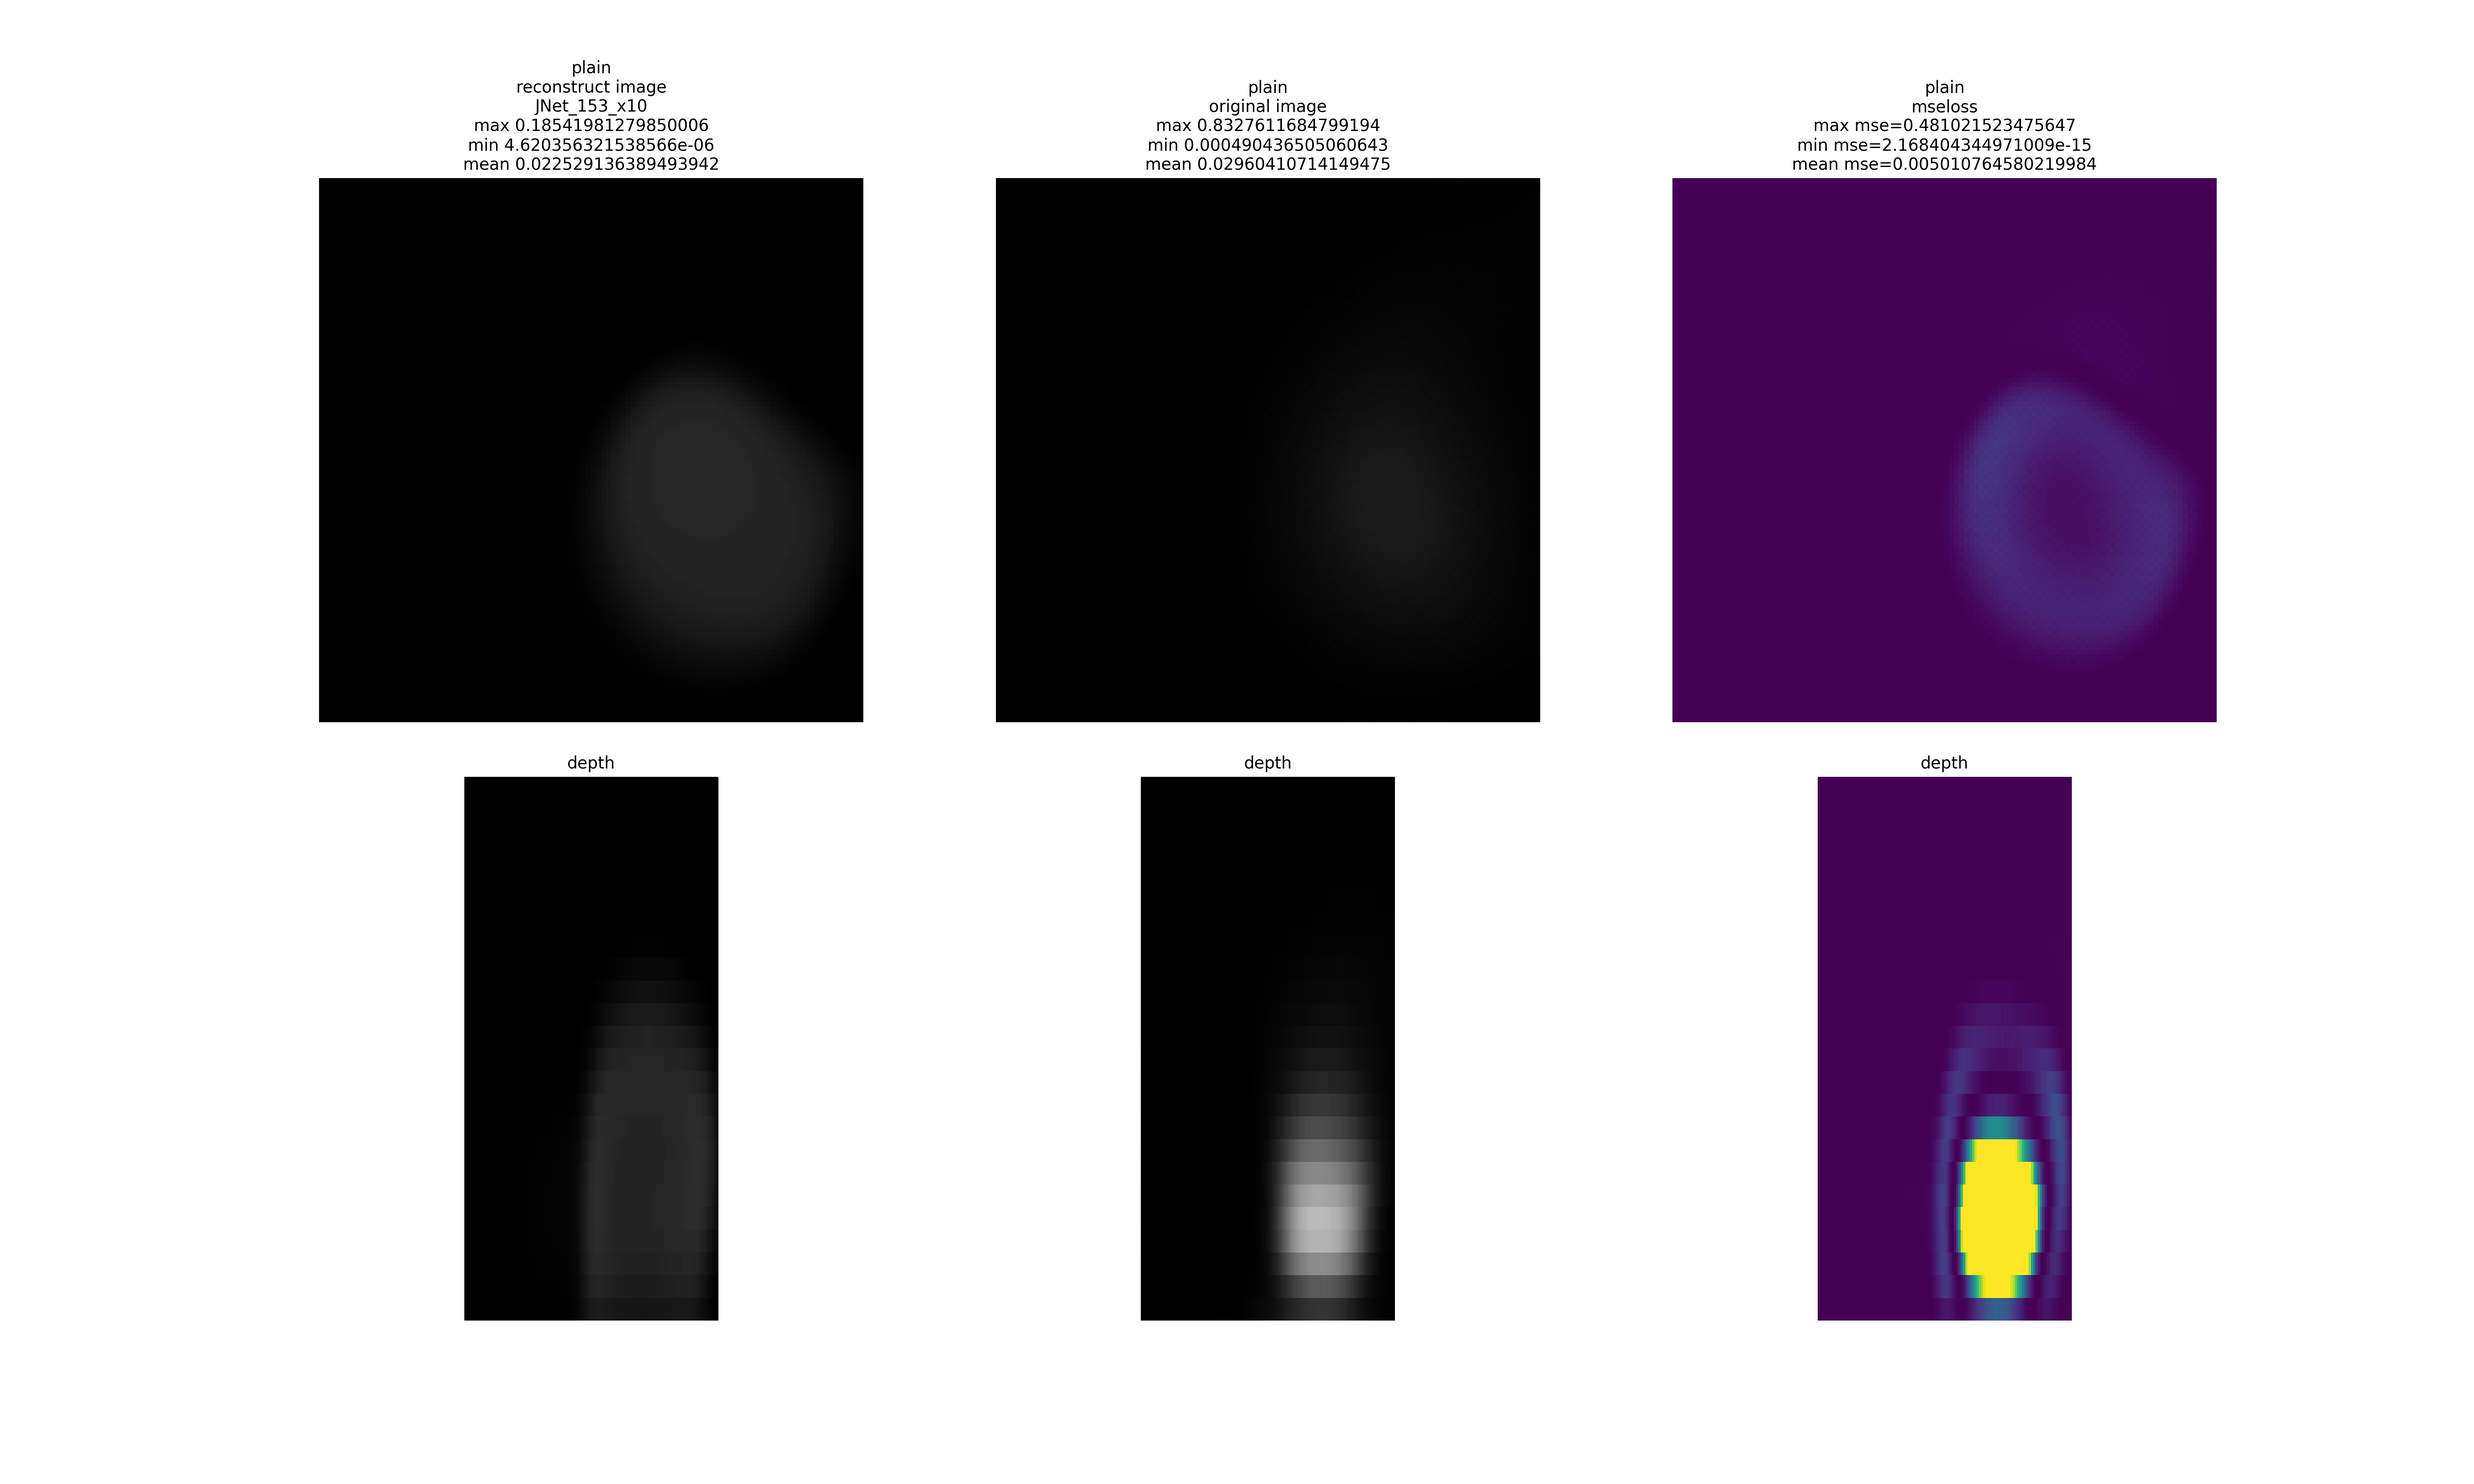
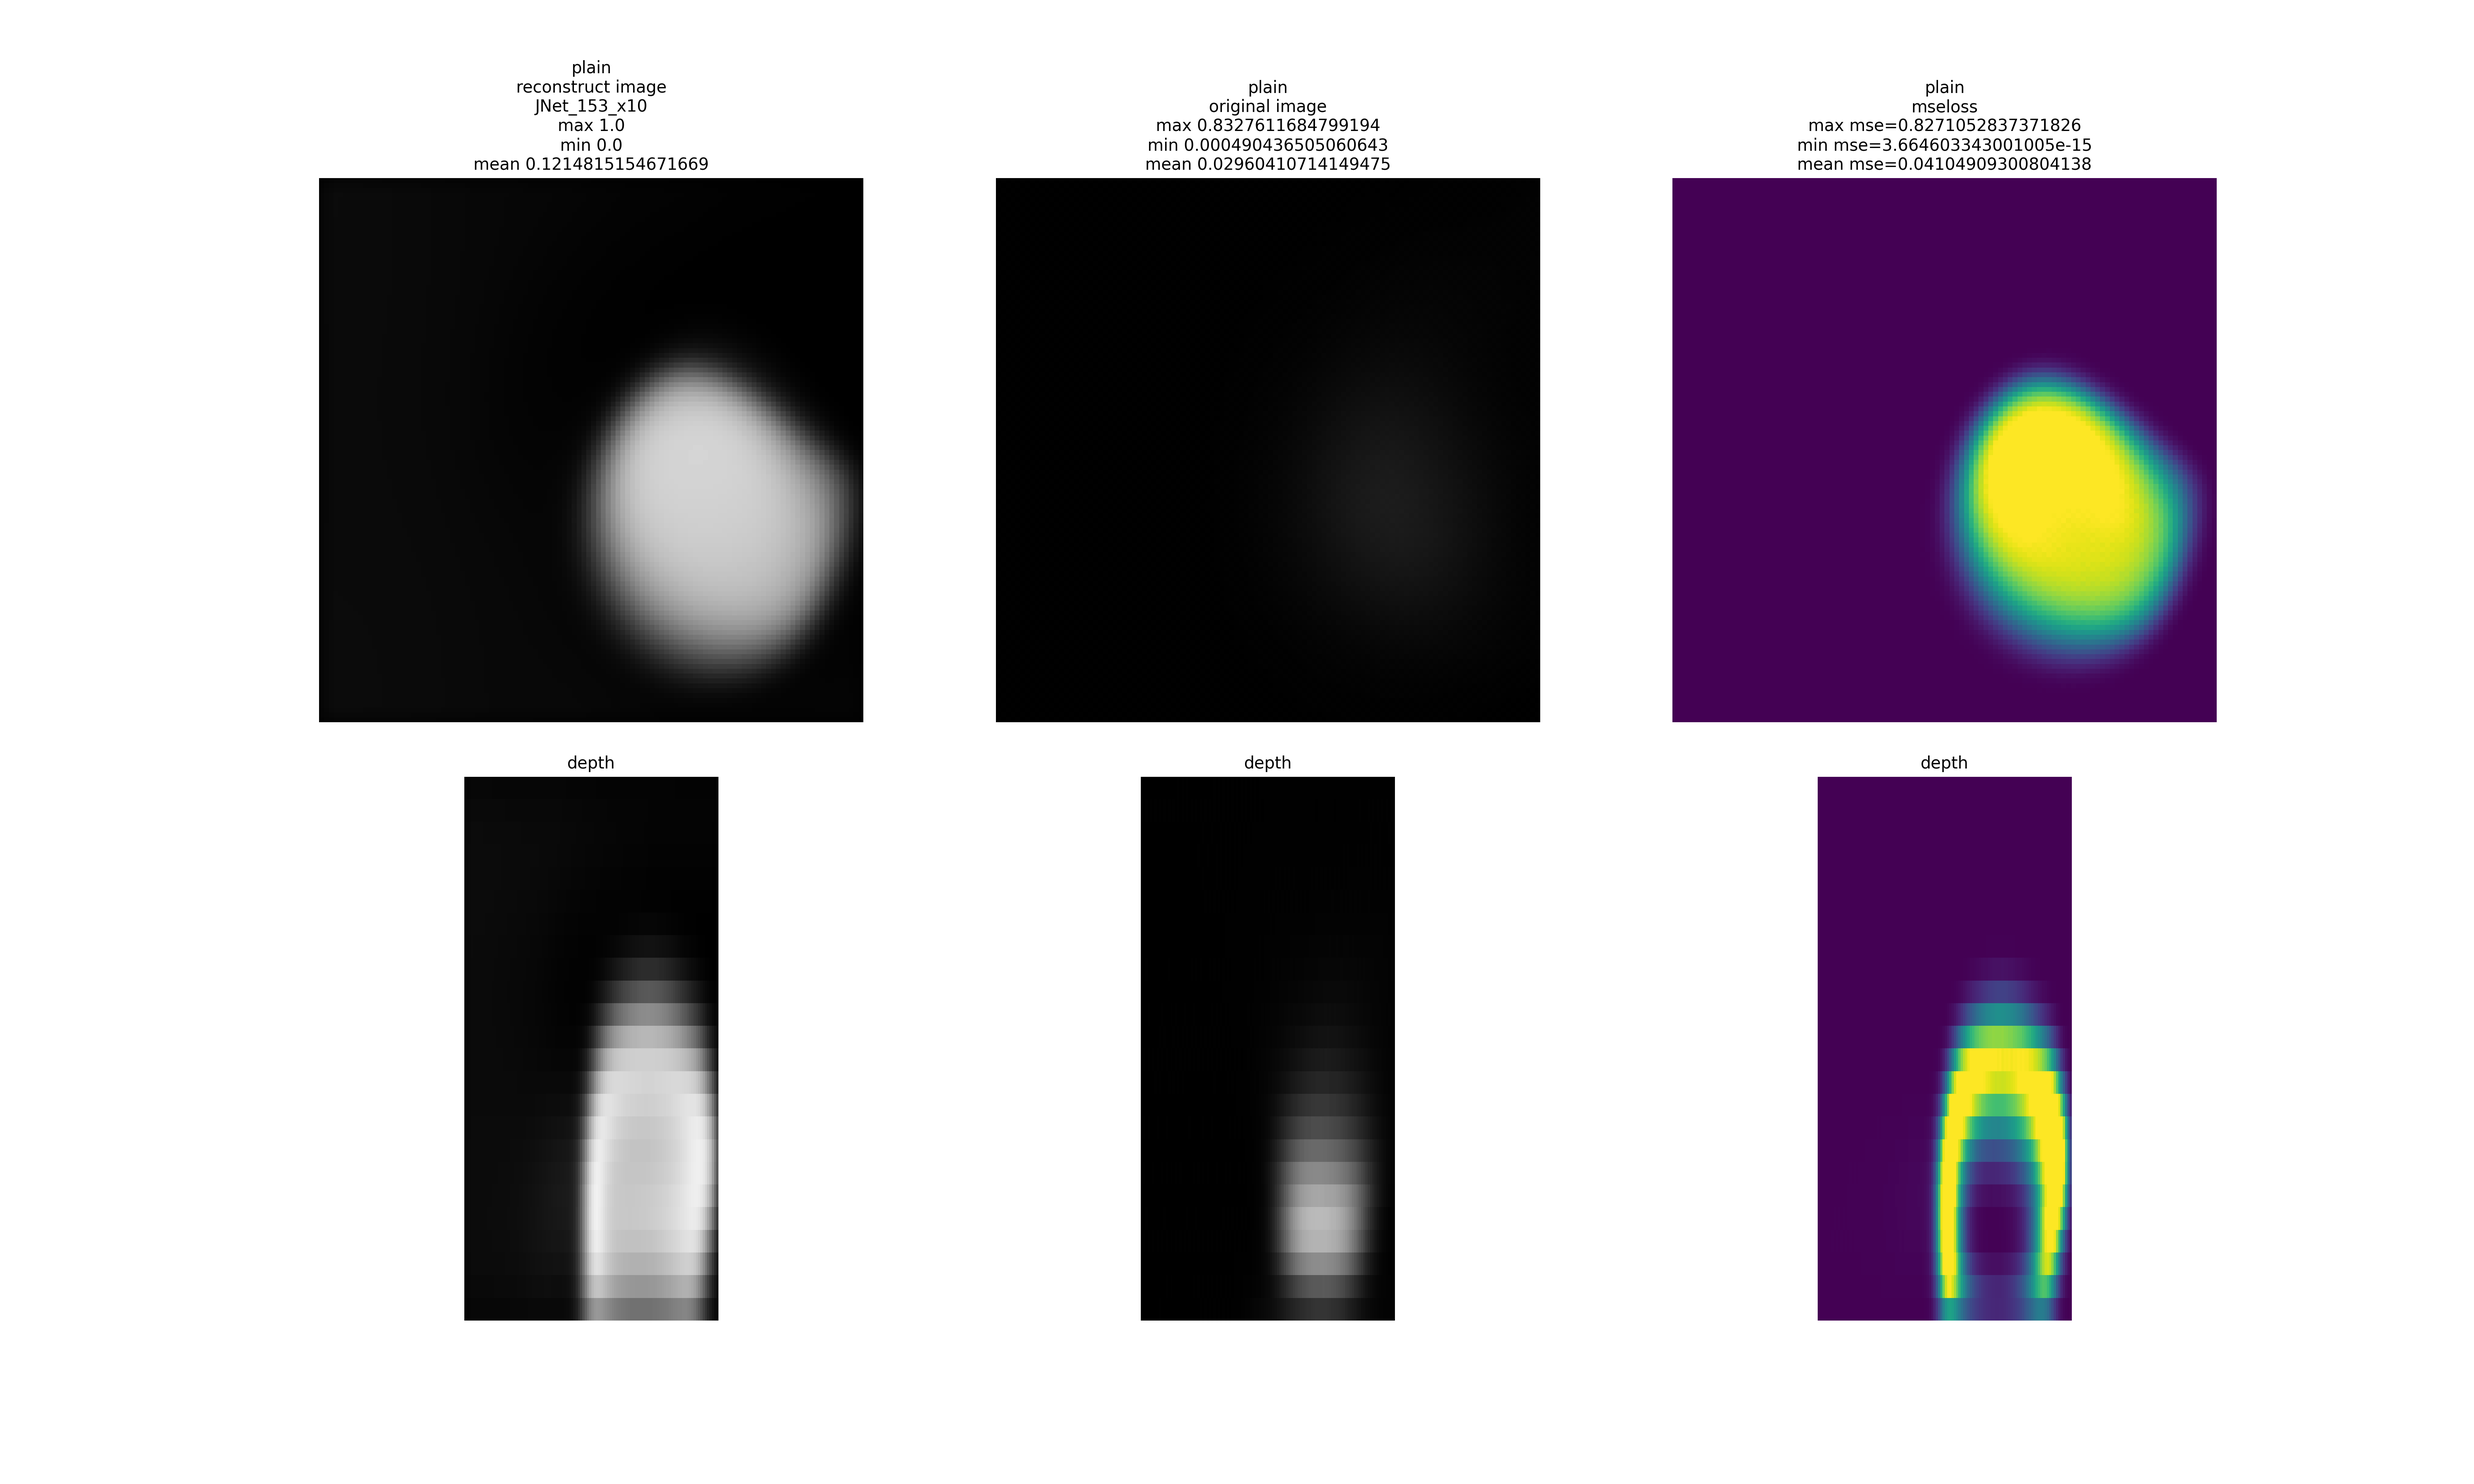
153 mseloss visualized

diff --git a/model.py b/model.py
@@ -163,8 +163,9 @@ class JNetBlur(nn.Module):
                         padding = ((self.z - self.zscale + 1) // 2  , 
                                    (self.x) // 2                    , 
                                    (self.y) // 2                    ,),)
-        theorymax = self.logn_ppf * torch.sum(alf)
-        rec  = rec / theorymax
+        #theorymax = self.logn_ppf * torch.sum(alf)
+        #rec  = rec / theorymax
+        rec  = (rec - rec.min()) / (rec.max() - rec.min())
         rec  = rec.squeeze(0) if inp.ndim == 4 else rec
         return rec
 

diff --git a/realinference.py b/realinference.py
@@ -131,7 +131,7 @@ else:
 
         msemax = mse.max()
         msemean= mse.mean()
-        vmax = 0.05
+        vmax = 0.5
         fig = plt.figure(figsize=(25, 15))
         ax1 = fig.add_subplot(231)
         ax2 = fig.add_subplot(232)
